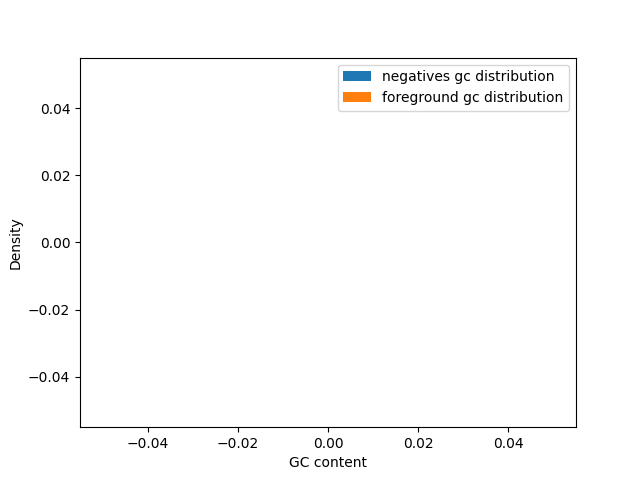
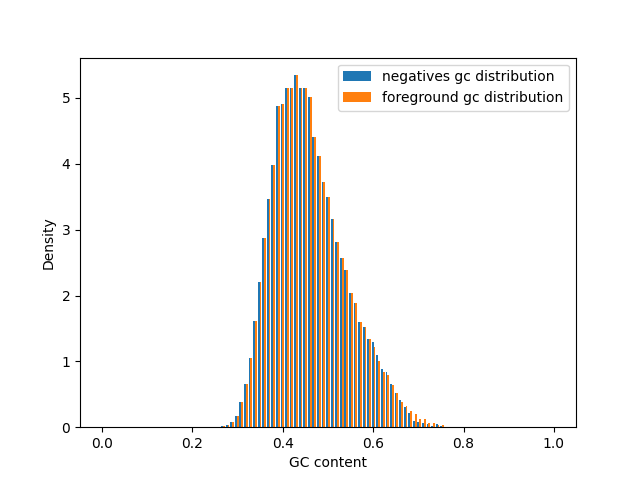
Subsample the GC-matching foreground; record two silent-failure modes
bpnet-gc-background hangs rather than reporting a shortfall when the foreground
is GC-rich enough to exhaust the high-GC bins, and it exits 0 having written
nothing when bedtools is missing. Adds 0.29 to verify the match before the
retrain is read: mean-GC gap to elements falls 0.084 to 0.013 in K562.

diff --git a/2026_0824_H3K27ac_model/scripts/0.29.verify_gc_match.py b/2026_0824_H3K27ac_model/scripts/0.29.verify_gc_match.py
@@ -1,0 +1,97 @@
+#!/usr/bin/env python3
+"""Verify that the GC-matched negatives are actually GC-matched.
+
+`bpnet-gc-background` does not carry the GC column into its output, so the match cannot be
+read off the file it writes. This recovers GC by joining the output coordinates back to the
+tiling's own annotation -- the same estimator used on both sides of the match, which is the
+only way the comparison means anything.
+
+Reports, for each element set: the elements' GC distribution (the matching target), the
+matched pool's, and the unmatched pool's, plus the largest per-bin discrepancy. If the
+matched column does not sit on the elements column, the retrain that uses these negatives
+tests nothing and should not be read.
+
+Positives' GC comes from the same tiling by nearest-bin lookup rather than from the genome
+fasta, so that positives and negatives are measured identically.
+"""
+import os
+import numpy as np
+import pandas as pd
+
+D = "/oak/stanford/groups/engreitz/Users/sheth/EP300_BPNet"
+P = f"{D}/2026_0824_H3K27ac_model"
+TILING = f"{D}/reference/genomewide_gc_stride_1000_flank_size_1057.gc.bed"
+SETS = [("k562_h3k27ac", f"{D}/reference/K562_DNase_candidate_elements.narrowPeak"),
+        ("gm12878_h3k27ac",
+         f"{D}/2026_0606_GM12878_transferability/reference/GM12878_candidate_elements.narrowPeak")]
+BIN = 0.02
+
+til = pd.read_csv(TILING, sep="\t", header=None, names=["chr", "start", "end", "gc"])
+til["gc"] = pd.to_numeric(til["gc"], errors="coerce")
+exact = {(c, s): g for c, s, g in zip(til["chr"], til["start"], til["gc"])}
+
+# Nearest-bin lookup, per chromosome, for regions that are not on the tiling grid.
+by_chrom = {}
+for c, sub in til.groupby("chr"):
+    mid = ((sub["start"] + sub["end"]) // 2).to_numpy()
+    o = np.argsort(mid)
+    by_chrom[c] = (mid[o], sub["gc"].to_numpy()[o])
+
+
+def gc_of(df, c_col=0, s_col=1, e_col=2):
+    out = np.full(len(df), np.nan)
+    ch = df.iloc[:, c_col].to_numpy()
+    mid = ((df.iloc[:, s_col] + df.iloc[:, e_col]) // 2).to_numpy()
+    st = df.iloc[:, s_col].to_numpy()
+    for i in range(len(df)):
+        hit = exact.get((ch[i], st[i]))
+        if hit is not None and np.isfinite(hit):
+            out[i] = hit
+            continue
+        arr = by_chrom.get(ch[i])
+        if arr is None:
+            continue
+        m, g = arr
+        j = np.clip(np.searchsorted(m, mid[i]), 1, len(m) - 1)
+        out[i] = g[j - 1] if abs(mid[i] - m[j - 1]) <= abs(m[j] - mid[i]) else g[j]
+    return out[np.isfinite(out)]
+
+
+def line(label, v, ref=None):
+    edges = np.arange(0.0, 1.0 + BIN, BIN)
+    extra = ""
+    if ref is not None and len(ref) and len(v):
+        a = np.histogram(ref, bins=edges, density=True)[0] * BIN
+        b = np.histogram(v, bins=edges, density=True)[0] * BIN
+        extra = f"{np.abs(a - b).max():>12.4f}"
+    print(f"{label:<34}{len(v):>10,}{np.mean(v):>10.4f}"
+          f"{np.percentile(v, 10):>8.3f}{np.percentile(v, 90):>8.3f}{extra}")
+
+
+unmatched = til["gc"].dropna().to_numpy()
+print(f"{'set':<34}{'n':>10}{'mean GC':>10}{'p10':>8}{'p90':>8}{'max bin diff':>12}")
+ok = True
+for label, peaks in SETS:
+    f = f"{P}/data/gc_negatives_{label}.bed"
+    print(f"\n--- {label}")
+    el = pd.read_csv(peaks, sep="\t", header=None)
+    el_gc = gc_of(el)
+    line("candidate elements (target)", el_gc)
+    line("unmatched tiling (what we used)", unmatched, el_gc)
+    if not os.path.exists(f):
+        print(f"  MISSING: {f}")
+        ok = False
+        continue
+    neg = pd.read_csv(f, sep="\t", header=None)
+    neg_gc = gc_of(neg)
+    line("GC-matched negatives", neg_gc, el_gc)
+    d_match = abs(np.mean(neg_gc) - np.mean(el_gc))
+    d_un = abs(np.mean(unmatched) - np.mean(el_gc))
+    print(f"    mean-GC gap to elements: matched {d_match:.4f}, unmatched {d_un:.4f} "
+          f"({d_un / d_match:.1f}x closer)" if d_match > 1e-9 else "")
+    if d_match > 0.5 * d_un:
+        print("    WARNING: matching barely improved the mean-GC gap; do not read the retrain")
+        ok = False
+
+print("\nVERDICT:", "matched pools are usable" if ok
+      else "at least one pool is missing or poorly matched")

diff --git a/.living/INDEX.md b/.living/INDEX.md
@@ -6,7 +6,7 @@ Last audit: 2026-09-06
 |------|---------|--------------|------------|
 | conventions.md | 17 sections | 2026-09-04 | Layout: analyses live at the repo root, not under `analysis/`, Reports, Figures, Environments, SLURM submit scripts (mandatory) |
 | decisions.md | 17 entries | 2026-09-06 | Center H3K27ac training windows on candidate elements, not ChIP peaks, Counting window is a trade-off between signal and neighbour contamination, Keep the profile head, down-weighted, rather than removing it, Residual correlation beyond ATAC becomes the headline metric, Paired-end H3K27ac targets use read 1 only, not both mates |
-| learnings.md | 46 entries (large — read selectively) | 2026-09-05 | count_loss_weight must be calibrated to the actual loss magnitudes, not copied, Inter-replicate r is not a model performance ceiling without two corrections, bpnetlite's count target sums ALL channels, not one strand, Three Sherlock/SLURM traps that cost a job each, Peak count scales the negative pool, which can OOM by 50x |
+| learnings.md | 48 entries (large — read selectively) | 2026-09-06 | count_loss_weight must be calibrated to the actual loss magnitudes, not copied, Inter-replicate r is not a model performance ceiling without two corrections, bpnetlite's count target sums ALL channels, not one strand, Three Sherlock/SLURM traps that cost a job each, Peak count scales the negative pool, which can OOM by 50x |
 | findings/ | 8 findings across 4 topics | 2026-09-06 | predicting-regulatory-element-function-at-scale, linking-noncoding-variation-to-molecular-function, mapping-regulatory-perturbations-to-phenotype, how-enhancers-control-gene-expression |
 
 ## Local skills
@@ -23,10 +23,12 @@ Last summarized: 2026-09-06 (heuristic)
 - **atac** (9 entries) — L-29, L-33, D-4, D-6, D-8
 - **ceiling** (9 entries) — L-14, L-17, L-18, L-24, D-2
 - **architecture** (8 entries) — L-42, L-45, D-3, D-7, D-15
-- **gm12878** (7 entries) — L-24, L-30, L-31, L-35, L-37
+- **abc** (7 entries) — L-41, L-48, D-9, D-16, D-17
 
 ## Most recent (10)
 
+- [2026-09-06] L-47: bpnet-gc-background hangs rather than reporting a shortfall when the foreground is GC-rich
+- [2026-09-06] L-48: The ABC snakemake driver stalls after its last real rule; gate downstream work on files, not on the driver
 - [2026-09-06] D-16: Make p300 the primary modelling target; train a GM12878 p300 model next
 - [2026-09-06] D-17: Use a paired bootstrap for every CRISPR-benchmark comparison
 - [2026-09-05] L-41: Why better H3K27ac does not help ABC: rank displacement of the functional elements
@@ -35,8 +37,6 @@ Last summarized: 2026-09-06 (heuristic)
 - [2026-09-05] L-44: The training negative pool was never GC-matched, and the filename says otherwise
 - [2026-09-05] L-45: The gate and the asymmetric loss both fail, as the corrected sequence reading predicted
 - [2026-09-05] L-46: Four times in one session I reported a group-level statistic as if it licensed an element-level or causal claim
-- [2026-09-05] D-13: Drop both p300 ideas: no second head, no stacked p300 input
-- [2026-09-05] D-14: Do not carry fragment channels into deployment
 
 ## By tag
 
@@ -45,23 +45,24 @@ Last summarized: 2026-09-06 (heuristic)
 - `atac`: L-12, L-22, L-25, L-28, L-29, L-33, D-4, D-6, D-8
 - `ceiling`: L-2, L-7, L-9, L-10, L-14, L-17, L-18, L-24, D-2
 - `architecture`: L-35, L-36, L-37, L-42, L-45, D-3, D-7, D-15
+- `abc`: L-39, L-40, L-41, L-48, D-9, D-16, D-17
 - `gm12878`: L-14, L-22, L-24, L-30, L-31, L-35, L-37
 - `negative-result`: L-7, L-9, L-41, L-45, D-13, D-14, D-15
-- `abc`: L-39, L-40, L-41, D-9, D-16, D-17
 - `k562`: L-24, L-30, L-31, L-35, L-37, L-38
+- `silent-failure`: L-6, L-15, L-19, L-20, L-21, L-47
 - `accessibility`: L-29, L-37, D-6, D-7, D-8
 - `bpnetlite`: L-1, L-3, L-8, L-11, D-3
+- `chrombpnet`: L-28, L-29, L-33, L-47, D-6
 - `evaluation`: L-2, L-3, L-34, D-4, D-10
 - `gating`: L-39, L-40, L-42, L-45, D-15
 - `loss-weighting`: L-1, L-11, L-13, L-16, D-3
 - `residual`: L-15, L-27, L-30, L-31, D-4
-- `silent-failure`: L-6, L-15, L-19, L-20, L-21
 - `stratification`: L-17, L-18, L-31, L-35, L-36
 - `transferability`: L-14, L-22, L-24, L-31, D-16
-- `chrombpnet`: L-28, L-29, L-33, D-6
 - `crispr-benchmark`: L-41, D-9, D-16, D-17
 - `fragment-length`: L-12, L-33, L-37, D-8
 - `multimodal`: L-27, L-29, L-36, D-7
+- `negatives`: L-5, L-44, L-47, D-15
 - `p300`: L-3, L-29, D-13, D-16
 - `receptive-field`: L-35, L-36, L-37, D-7
 - `target-definition`: L-8, L-9, L-10, D-5
@@ -74,11 +75,12 @@ Last summarized: 2026-09-06 (heuristic)
 - `loss-design`: L-42, L-45, D-15
 - `mnll`: L-8, L-11, L-13
 - `negative-control`: L-27, L-30, L-38
-- `negatives`: L-5, L-44, D-15
 - `prediction-was-wrong`: L-10, L-14, L-24
 - `profile-head`: L-11, L-36, D-3
 - `self-correction`: L-42, L-43, L-46
+- `sherlock`: L-4, L-21, L-48
 - `slurm`: L-4, L-19, L-21
+- `snakemake`: L-39, L-40, L-48
 - `statistics`: L-2, L-23, D-17
 - `telohaec`: L-26, L-28, D-5
 - `validation`: L-19, L-28, L-33
@@ -87,6 +89,7 @@ Last summarized: 2026-09-06 (heuristic)
 - `deployment`: L-31, D-14
 - `determinism`: L-34, D-10
 - `fragment-extension`: L-8, L-9
+- `gc-matching`: L-44, L-47
 - `guards`: L-19, L-20
 - `inference`: L-38, D-11
 - `methodology`: L-15, L-19
@@ -103,8 +106,6 @@ Last summarized: 2026-09-06 (heuristic)
 - `reproducibility`: L-16, L-32
 - `reversal`: L-36, D-7
 - `reverse-complement`: L-38, D-11
-- `sherlock`: L-4, L-21
-- `snakemake`: L-39, L-40
 - `superset`: L-33, D-8
 - `tn5`: L-33, D-8
 - `tolerance`: L-34, D-10
@@ -120,6 +121,7 @@ Last summarized: 2026-09-06 (heuristic)
 - `bash`: L-4
 - `bigwig`: L-8
 - `bootstrap`: D-17
+- `bpnet-gc-background`: L-47
 - `buffering`: L-4
 - `caching`: L-32
 - `causal-inference`: L-46
@@ -155,14 +157,15 @@ Last summarized: 2026-09-06 (heuristic)
 - `error-strata`: L-46
 - `fragment-channels`: D-14
 - `free-win`: L-38
-- `gc-matching`: L-44
 - `generalization`: L-25
 - `geo`: L-26
 - `gpu`: L-34
+- `hang`: L-47
 - `index`: L-6
 - `injection`: D-9
 - `input-definition`: D-6
 - `input-design`: D-8
+- `known-behaviour`: L-48
 - `latent-bug`: L-34
 - `leakage`: D-9
 - `learnability`: L-10
@@ -177,6 +180,7 @@ Last summarized: 2026-09-06 (heuristic)
 - `off-by-factor`: L-3
 - `offset`: L-15
 - `oom`: L-5
+- `orchestration`: L-48
 - `organisation`: D-12
 - `orphaned-jobs`: L-40
 - `owners`: L-21
@@ -204,6 +208,7 @@ Last summarized: 2026-09-06 (heuristic)
 - `sequence-branch`: L-44
 - `sequence-vs-accessibility`: L-18
 - `spearman-brown`: L-2
+- `stall`: L-48
 - `str-replace`: L-20
 - `stranded`: L-3
 - `submit-scripts`: L-4

diff --git a/.living/learnings.md b/.living/learnings.md
@@ -1566,3 +1566,70 @@ keeping as a standing question to ask of any enrichment result, including my own
 until an attributable-fraction test has been run: remove the elements carrying the proposed
 cause and report whether the phenotype survives. Report the distribution and the fraction
 above threshold alongside every mean enrichment.
+
+### [2026-09-06] bpnet-gc-background hangs rather than reporting a shortfall when the foreground is GC-rich
+
+`bpnet-gc-background` matches each foreground region to a **distinct** candidate negative in
+the same GC bin, drawing without replacement. Our candidate elements have mean GC 0.473 and
+p90 0.590 while the genome-background pool is at 0.389 with p90 0.490, so the high-GC bins
+hold far fewer candidates than 150,528 foreground regions demand. The tool does not raise, warn
+or degrade -- it **spins**. First attempt reached 93% (140,108/150,528) in 15 seconds and then
+made zero progress for 1 h 57 m before being cancelled.
+
+**Two separate traps in one job.** Before the hang it had already failed differently: the tool
+shells out to `bedtools`, which is not in the `bpnet_37` env, and the missing binary produced
+an empty candidate-negative set, a 0-byte output file, and exit status 0. Only an explicit
+`[[ -s "$f" ]]` check in the wrapper caught it. Append the pixi env to PATH -- append, not
+prepend, so `bpnet_37`'s own entry points still win; the tool is invoked by absolute path and
+its shebang pins its interpreter, so PATH order cannot mis-route it.
+
+**The fix for the hang is to subsample the foreground**, not to raise a limit. Only the GC
+*distribution* defines the matching target, so a 50,000-region random subsample of 150,528
+specifies it to well inside the 0.02 bin width, and 50,000 equals the trainer's
+`--max-negatives` cap so the pool is used whole. `shuf --random-source=/dev/zero` keeps it
+reproducible. Add `timeout 45m` so a recurrence fails fast.
+
+**What the match achieves, and what it cannot.** Mean-GC gap to the elements falls from 0.0842
+to 0.0128 in K562 (6.6x closer) and 0.0655 to 0.0141 in GM12878, with the largest per-bin
+discrepancy dropping from 0.072 to 0.015. But the matched pool still undershoots the GC-rich
+tail -- p90 0.570 against the elements' 0.590 -- because a genome-background pool does not
+contain enough very-high-GC windows. So a matched-negatives experiment is a strong test of the
+GC-shortcut hypothesis and not a complete one: a null kills the hypothesis, but a partial
+improvement leaves residual high-GC shortcut as a live alternative to a genuine ceiling. The
+complete version needs accessible-but-unacetylated regions in the pool, which sit at high GC.
+
+**Tags**: gc-matching, negatives, chrombpnet, bpnet-gc-background, silent-failure, hang
+
+**mitigation_type**: structural
+
+**structural_mitigation_candidate**: Wrap every external generator in an output assertion
+(`[[ -s ]]` plus a row count) and a `timeout`. A tool that exits 0 having written nothing, or
+that never exits at all, is indistinguishable from success to a shell script that only checks
+the exit code.
+
+### [2026-09-06] The ABC snakemake driver stalls after its last real rule; gate downstream work on files, not on the driver
+
+Three runs in a row now: the driver reaches the final steps, every child job reports
+COMPLETED, nothing is queued, and the driver then sits idle indefinitely. Observed at 18/21
+steps for the p300 activity run (idle > 1 h, cancelled at 3 h 40 m) and again on the p300
+transfer run (both arms' predictions written, driver still RUNNING at 1 h 37 m). The
+outstanding rules were `generate_qc_plot_and_summary` and aggregation, which nothing
+downstream reads. An earlier occurrence also left two orphaned children running 22 minutes
+after their driver was cancelled.
+
+**What to do.** Gate downstream work on the specific output files it consumes -- for the
+CRISPR benchmark that is `<arm>/Predictions/EnhancerPredictionsAllPutative.tsv.gz` -- and
+verify them properly (`gzip -t` plus a row count; ~10.1-10.3 M rows per arm here) rather than
+waiting on the driver's exit status. Then cancel the driver. `filter_predictions` completing
+for every arm is what makes those files final, so check that rule rather than the workflow.
+
+**Do not conclude the outputs are bad.** In every occurrence the science was complete and only
+the driver's bookkeeping was wrong. The failure mode is a stalled orchestrator, not a failed
+pipeline, and treating it as the latter would have thrown away hours of correct compute.
+
+**Tags**: abc, snakemake, orchestration, stall, sherlock, known-behaviour
+
+**mitigation_type**: process
+
+**structural_mitigation_candidate**: For any long snakemake driver, define the downstream
+gate as an explicit file manifest with integrity checks, written before the run starts.
